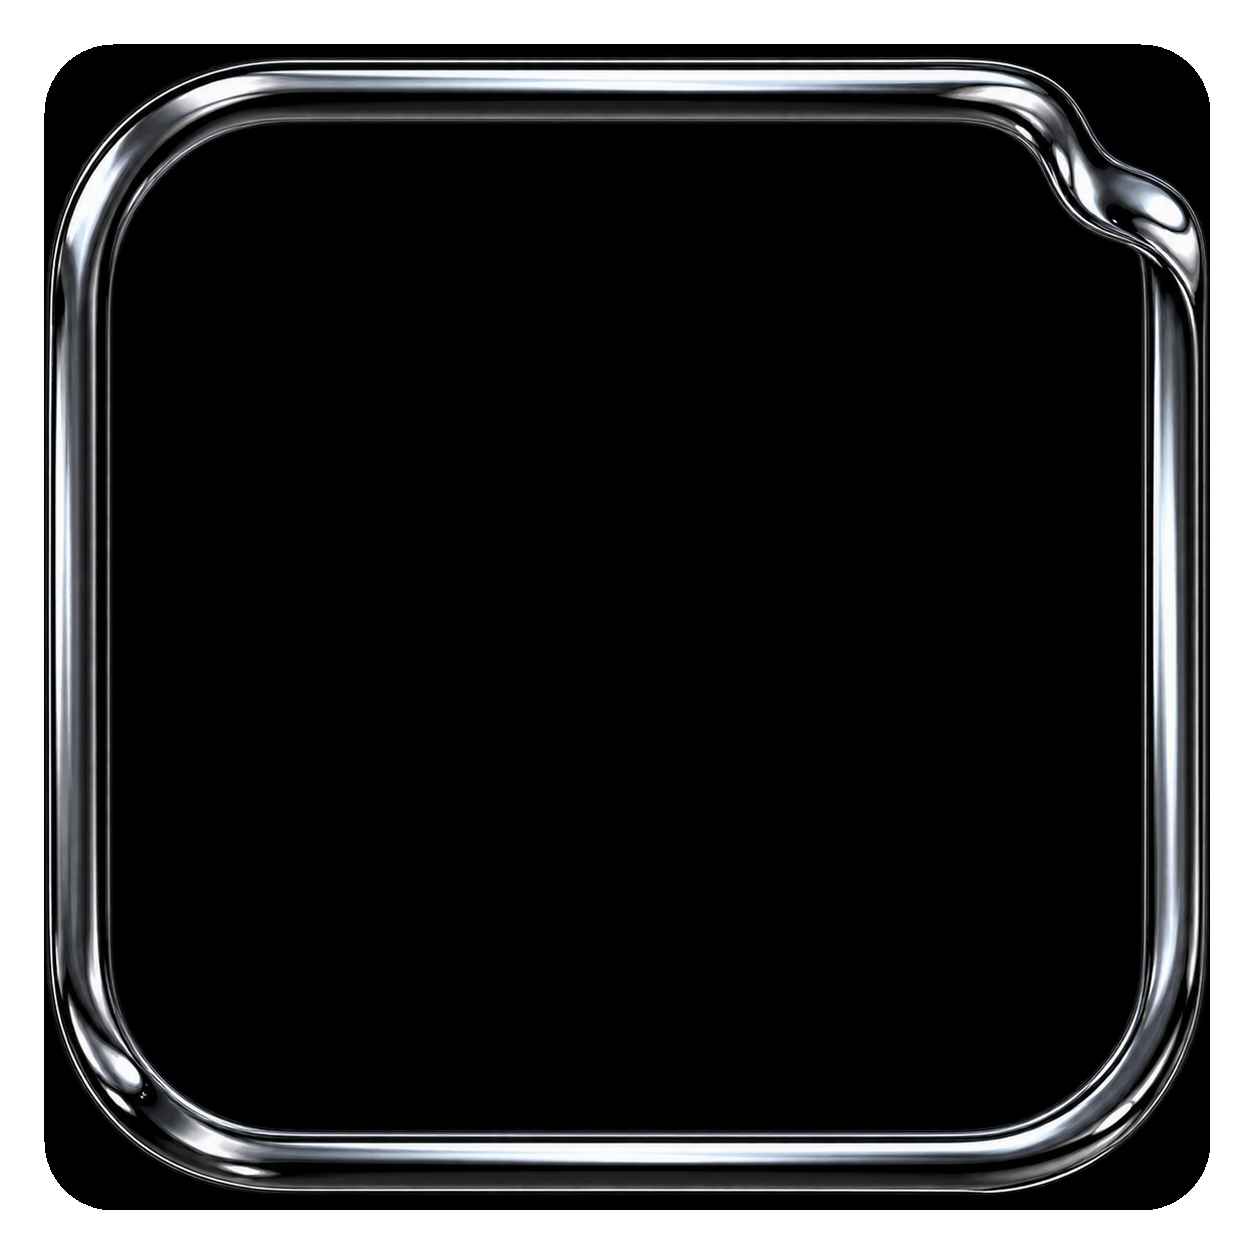
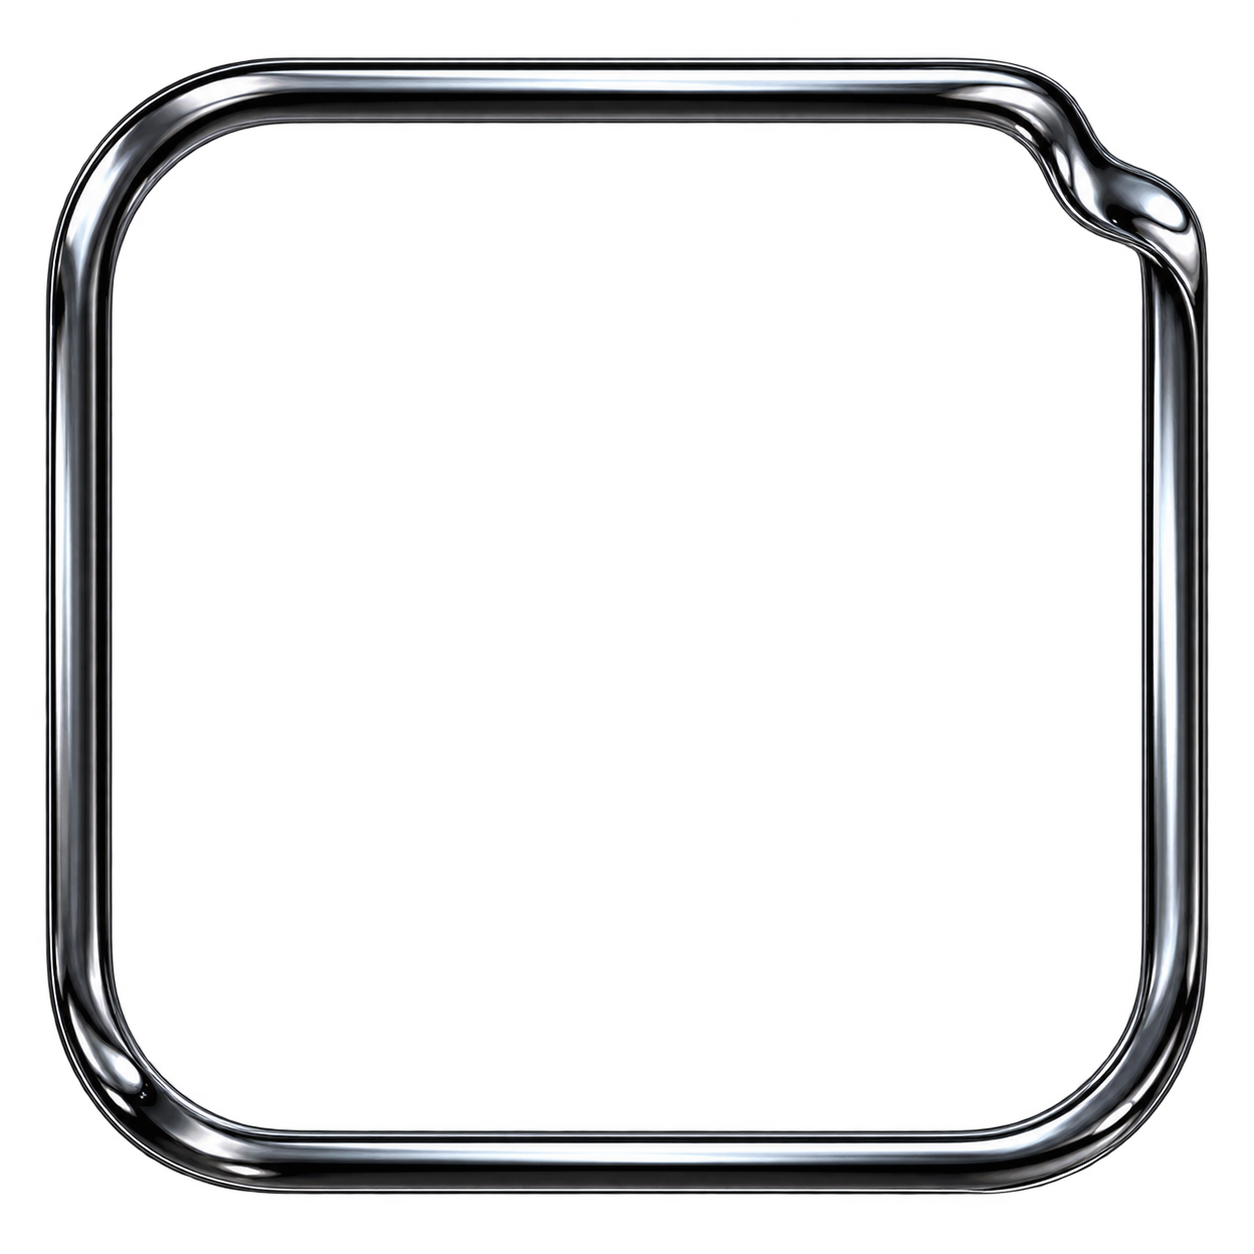
Use supplied square chrome frame for decor panel

diff --git a/src/hard-metal-theme.css b/src/hard-metal-theme.css
@@ -541,6 +541,16 @@ body:has(#object3d-app):before{background-image:linear-gradient(132deg,#04090aa8
   --liquid-window-outline:url('./assets/chrome-frames/window-frame-vertical-right-fold.png')!important;
 }
 
+/* Objet 3D : cadre carré fourni, étiré à la proportion du panneau Décor. */
+#object3d-app .inspector .decor-card{
+  --liquid-window-outline:url('./assets/chrome-frames/button-frame-icon-square.png')!important;
+}
+
+#object3d-app .inspector .decor-card::after{
+  inset:0!important;
+  background-size:100% 100%!important;
+}
+
 /* Mode transparent global : ni fenêtres, ni cartes, ni champs, ni boutons
    n'ajoutent de fond. Le noir déjà contenu dans les PNG est fondu dans le
    décor ; le chrome reste visible comme un véritable contour détouré. */
